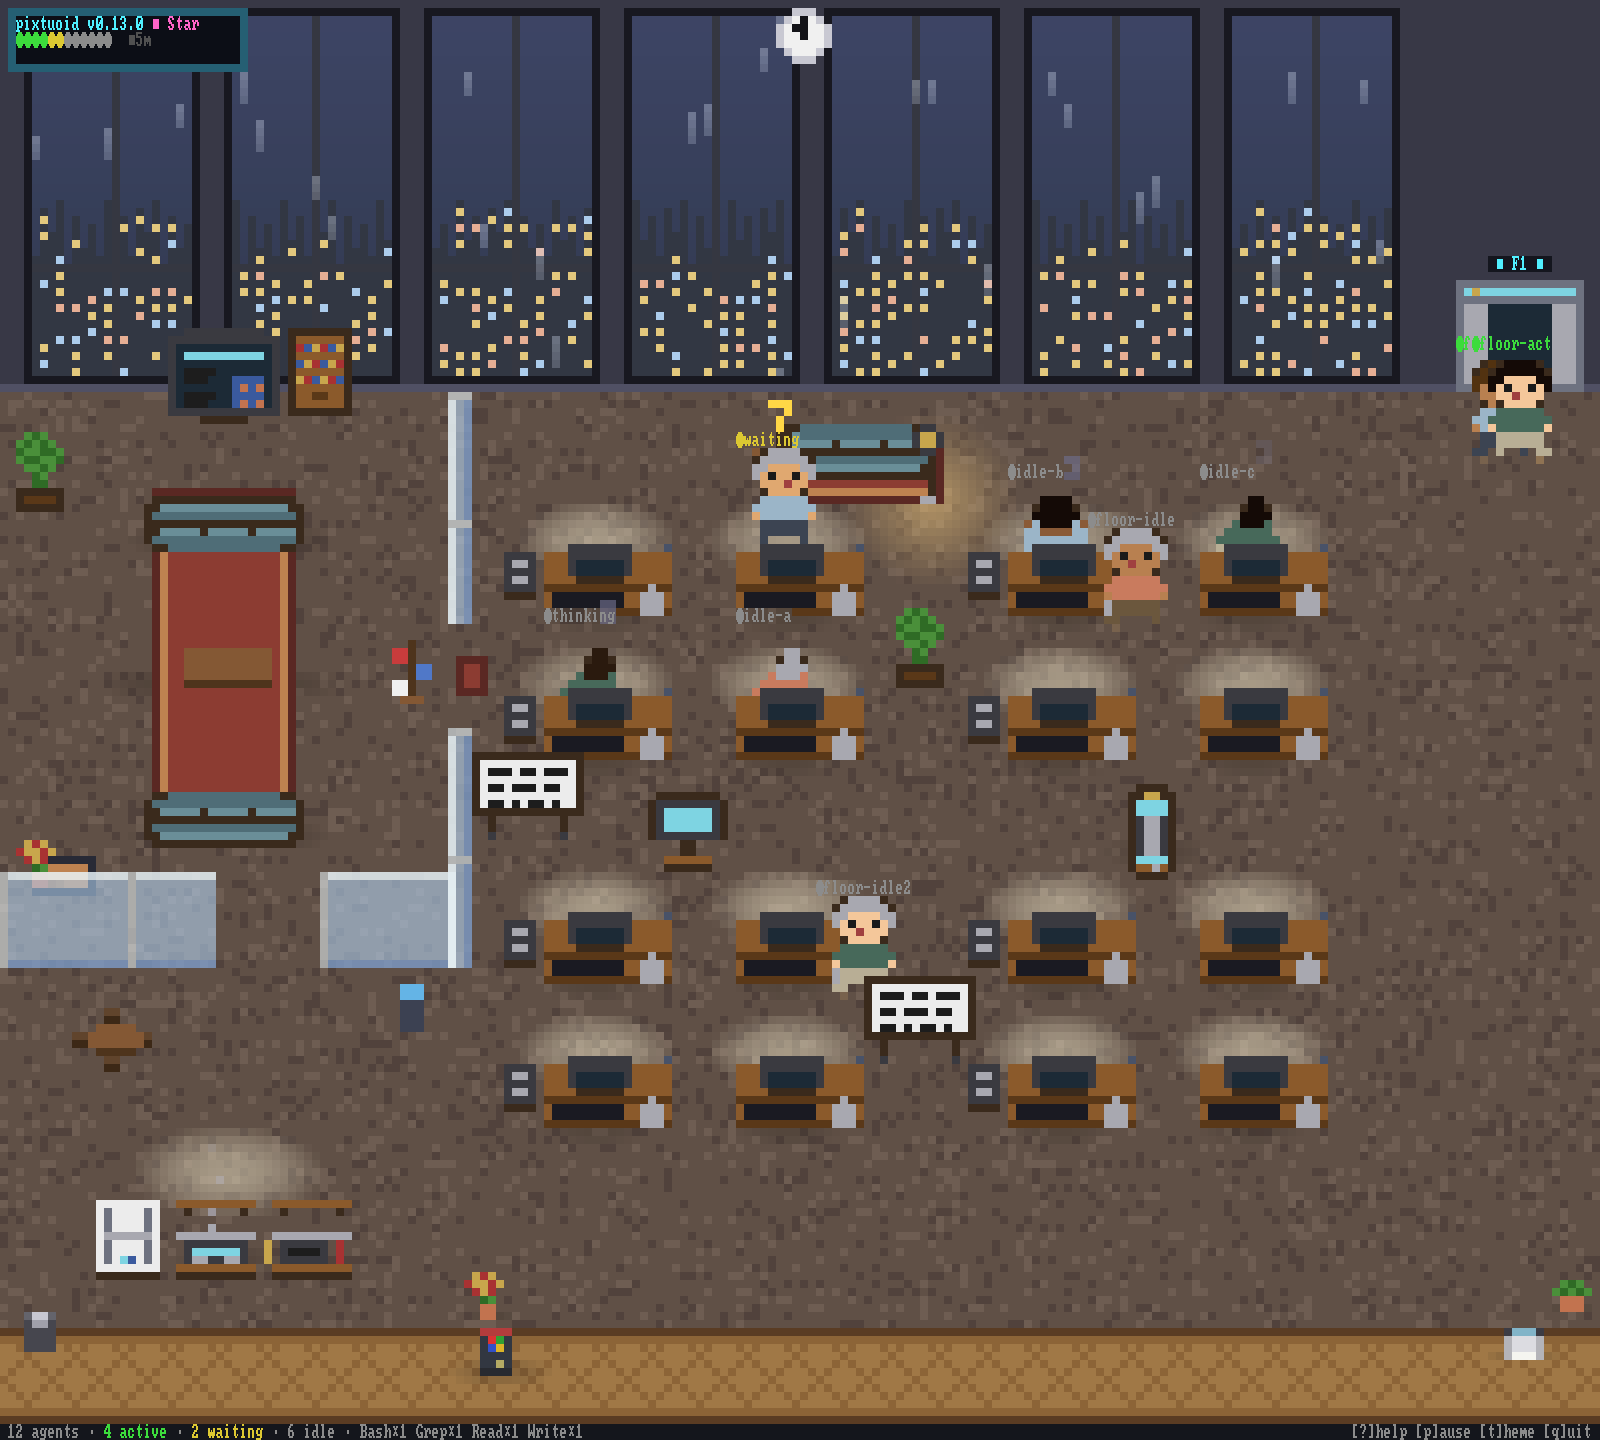
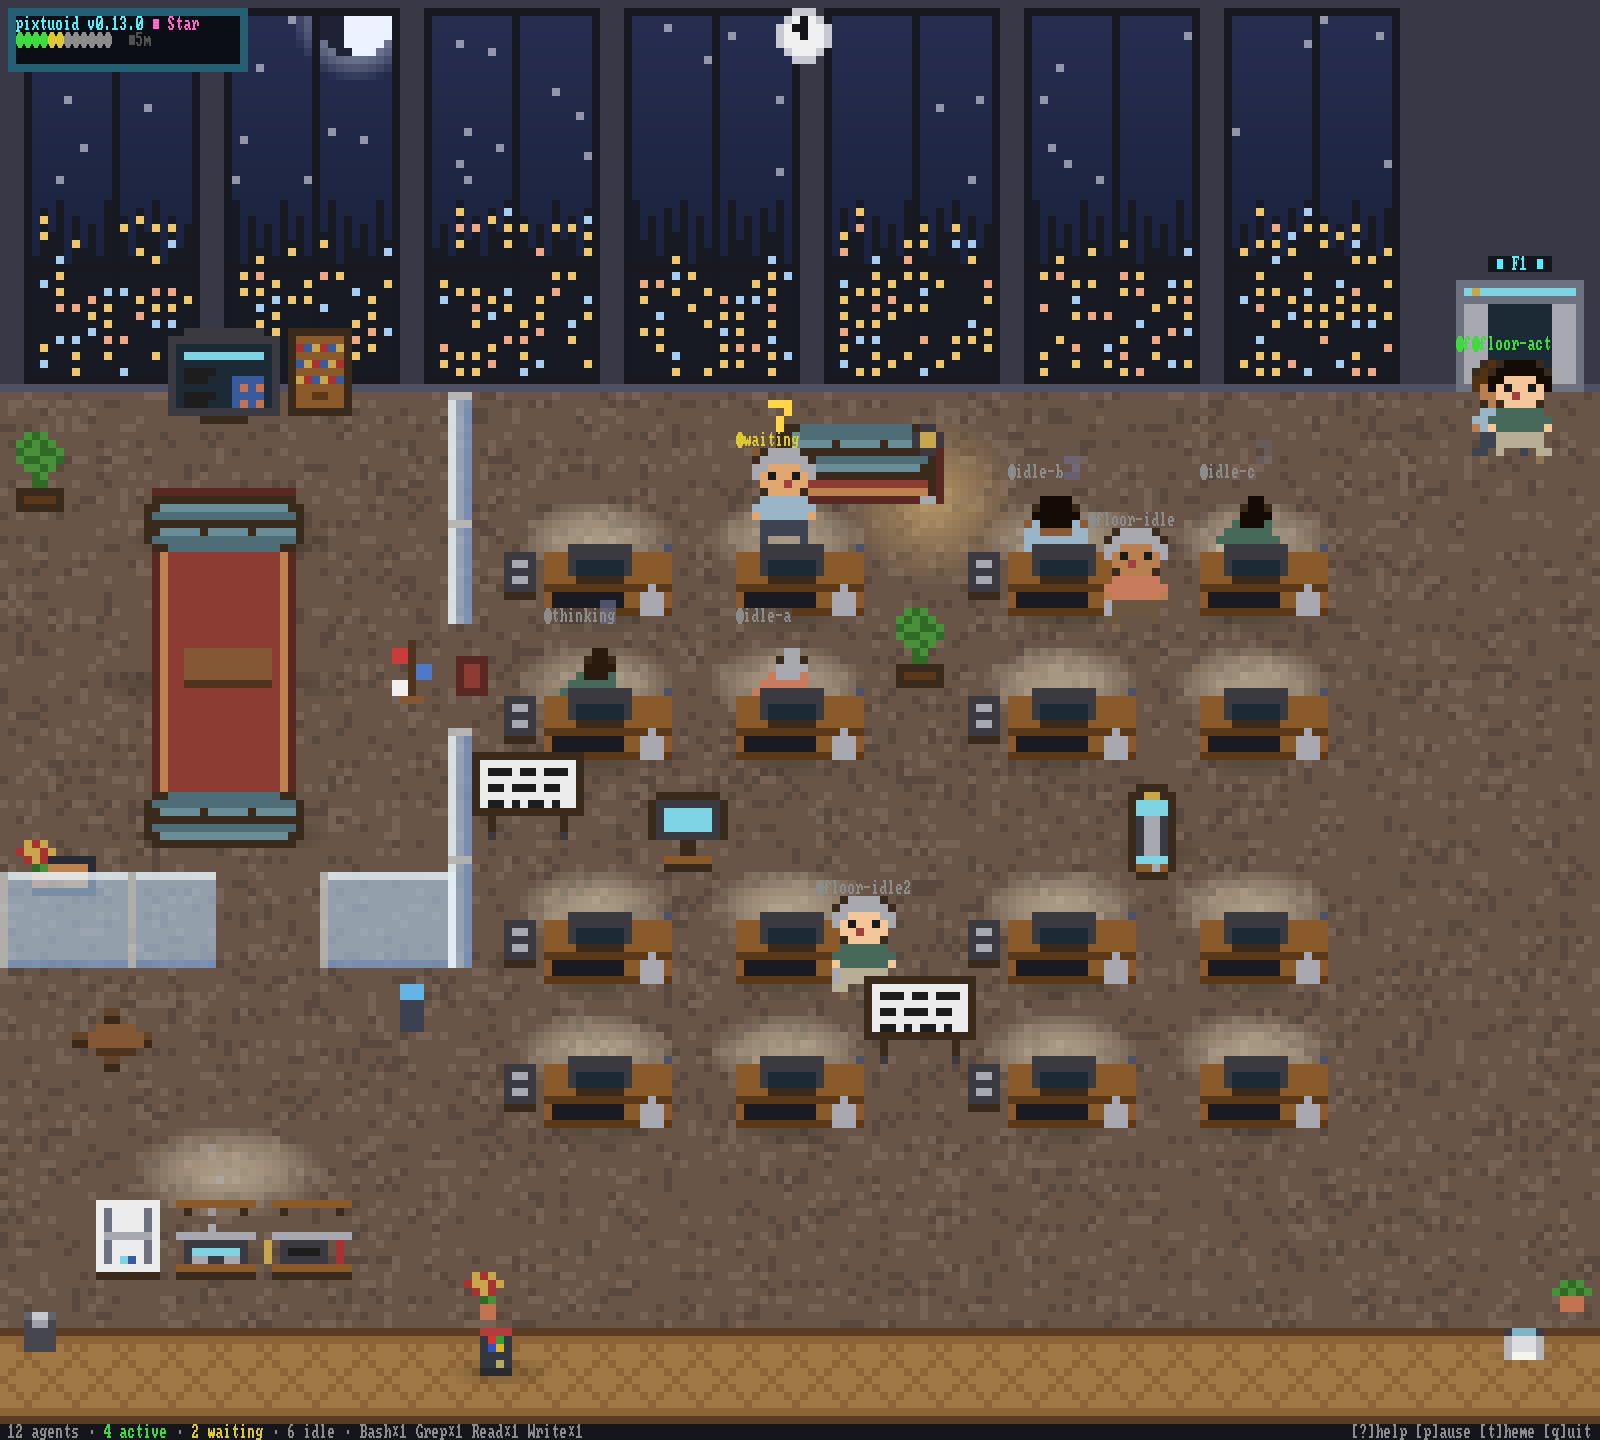
review: two-lens review round — tighten test, correct splitmix64 doc, trim stale copy, show the moon in the night showcase
Three-lens review (correctness + design/blast-radius + film-critic): APPROVE-WITH-NITS ×2, APPROVE ×1, no blockers. Dispositions:

FIXED:
- (correctness, conf 85) emitter_is_sun_by_day_moon_by_night_never_both: Moon arm was the loose !(8..17); tightened to the exact complement !(5..20) of the Sun arm (a SUN_RISE_H/SUN_SET_H boundary shift previously slipped past it — confirmed by the reviewer's mutation test).
- (correctness, conf 88) scene CLAUDE.md: my Task-8 "splitmix64 SIX times" bump was wrong — star_exists/star_twinkle are the simpler city_dot_twinkle idiom (single-shift / lone golden-ratio multiply), NOT the 3-stage splitmix64 finalizer. Reverted to FOUR genuine sites + a separate constant-as-multiplier-mix family note.
- (design, conf 62) features.json "Weather effects": dropped the now-stale "+ sunset golden hour" (golden hour is the living-sky emitter's territory now, golden_hour_blaze); regenerated README.

POLISH:
- (design/film-critic) night showcase forced weather=clear (media.json) so the moon + stars reliably show (was landing on a cloudy night with no moon); regenerated night.png.

REFUTED (no change, with trace):
- (design) release_notes "a clear noon blazes" refers to interior brightness (true at clear noon), not disc visibility — the "real low window" apex-clip sharp edge stands; not a factual error.
[…]

Changed region(s): [[0.0, 0.0, 0.875, 0.2812]]

diff --git a/crates/pixtuoid-scene/src/pixel_painter/background/sky.rs b/crates/pixtuoid-scene/src/pixel_painter/background/sky.rs
@@ -719,9 +719,12 @@ mod tests {
                     (5.0..20.0).contains(&(h as f32 + m as f32 / 60.0)),
                     "sun only during the daylight ramp, got {h}:{m:02}"
                 ),
+                // Exact complement of the Sun arm's `[5,20)` band (was the
+                // looser `!(8..17)`, which left [5,8)/[17,20) unchecked for the
+                // moon — a SUN_RISE_H/SUN_SET_H boundary shift slipped past it).
                 Body::Moon => assert!(
-                    !(8.0..17.0).contains(&(h as f32 + m as f32 / 60.0)),
-                    "moon never at solar midday, got {h}:{m:02}"
+                    !(5.0..20.0).contains(&(h as f32 + m as f32 / 60.0)),
+                    "moon only when the sun is down, got {h}:{m:02}"
                 ),
             }
         }

diff --git a/crates/pixtuoid-scene/CLAUDE.md b/crates/pixtuoid-scene/CLAUDE.md
@@ -196,7 +196,7 @@ src/                (the pixtuoid-scene crate root; default pack at ../sprites/d
 - **A meeting room narrower than `MEETING_FURNITURE_MIN_W` (compute.rs) has NO sofa/table/seats — bare floor, BY DESIGN.** Below it the 16px sofa body leaves too little margin for the coarse 4×4 router to reach the seats, so an idle agent sent to sit would TELEPORT (find_path None → straight-line fallback). The room Bounds/walls/door still exist; only the unroutable furniture is dropped (same degradation the dense floor uses when too short). So "meeting room exists" no longer implies "meeting slots exist" — don't "fix" the missing sofa at small sizes. Guarded by `pathfind::tests::every_wander_waypoint_is_routable_on_the_coarse_grid` (coarse-grid reachability across seeds × sizes — stronger than the pixel-BFS connectivity sweep).
 - **Occlusion is EMERGENT — there is no `occludes_behind` field / synthetic cap any more (deleted).** An overhanging piece (`visual.h > footprint.h`: plant canopy, booth column, TV monitor, whiteboard panel, pantry counter) has its footprint **south-anchored to the sprite base** by `mask::stamp_overhang_aware`, so a walker parks DEEP behind it and the piece's own y-sorted sprite paints over their lower body. The old `paint_furniture_back_floor` floor-snapshot cap is gone. **Two intentionally decoupled footprints:** the MASK uses the shallow `footprint` (occlusion + collision); `approach_point` derives the USER's park distance from the full `visual` (`approach_clearance_extent` — the SINGLE extent source, which `stand_point` delegates through) so someone *using* the furniture parks clear of the whole sprite, not inside it. This is the industry Y-sort pattern (base-collision + sprite-occludes); **don't re-add a cap** — make the sprite overhang its shallow footprint instead. Pinned by `pixtuoid_scene::pixel_painter::tests::every_pod_occludes_via_overhang` (in the `pixtuoid-scene` engine crate, not core).
 - **Pantry counter blocks only a shallow `PANTRY_FOOTPRINT_DEPTH` south strip, not its full sprite height.** The counter is a ¾-view sprite centered on `pos`; only its south base contacts the floor (the receding cabinet tops overhang, invariant #6). `mask.rs` south-anchors a 3px strip; a character behind it is occluded by the counter's own y-sorted sprite, couch-style — the same emergent occlusion as every overhanging piece (above). `stand_point` parks the USER clear of the full `visual`, not this shallow strip (the runtime-sized pantry was the original mask-vs-approach decouple, now generalised to all overhanging obstacles).
-- **splitmix64 is open-coded SIX times in this crate on purpose** (`weather_state` in `background/sky.rs`, `strike_offset` in `background/mod.rs`, `dust_mote_positions` in `ambient.rs`, `cwd_outfit_seed` in `pixel_painter/palette.rs`, `star_exists` + `star_twinkle` in `background/mod.rs` — the night star field) beside the canonical `core::id::splitmix64` (`#[doc(hidden)] pub` since the physics/pose personality slicers moved into this crate and finalize through it cross-crate), plus constant-as-multiplier mixes in `ambient.rs` and `pose::is_aimless_cycle`. DELIBERATE: each is an independent noise source over a disjoint input domain — no two sites need equal output, so no parity test exists or is wanted; the real gate is the gen-check pixel diff on the rendered output. Don't unify them into one shared fn.
+- **splitmix64 is open-coded FOUR times in this crate on purpose** (`weather_state` in `background/sky.rs`, `strike_offset` in `background/mod.rs`, `dust_mote_positions` in `ambient.rs`, `cwd_outfit_seed` in `pixel_painter/palette.rs` — each the canonical 3-stage finalizer, shifts 30/27/31) beside the canonical `core::id::splitmix64` (`#[doc(hidden)] pub` since the physics/pose personality slicers moved into this crate and finalize through it cross-crate), plus a SEPARATE family of simpler **constant-as-multiplier position/twinkle mixes** — `ambient.rs`, `pose::is_aimless_cycle`, the skyline `city_dot_lit`/`city_dot_twinkle`, and the night-star `star_exists`/`star_twinkle` in `background/mod.rs` (a single-shift or lone golden-ratio multiply — NOT splitmix64's 3-stage finalizer; don't miscount them as splitmix64 clones). DELIBERATE either way: each is an independent noise source over a disjoint input domain — no two sites need equal output, so no parity test exists or is wanted; the real gate is the gen-check pixel diff on the rendered output. Don't unify them into one shared fn.
 - **The sun/moon disc keeps a "real low window":** it is only visible at LOW altitude (dawn/dusk) and clips above the glass near its arc apex (absent at solar midday / lunar midnight — see `HORIZON_FRAC`/`ARC_RISE_FRAC` in `background/mod.rs`); it's gated to the ONE window its centre is currently over, so it hides behind the inter-window wall pillar between panes and behind the right-side elevator door at the dusk extreme; and thick cloud (Overcast/Rain/Storm) hides it uniformly below `MIN_DISC_VIS`, regardless of altitude. Don't "fix" any of these as a bug — they're the intended day/night + weather gating.
 - **Day-over-night light invariant:** the moon casts no direct beam (diffuse-fill only — both `beam_strength` and `time_of_day_look`'s `direct_eff` zero it for `Body::Moon`), and `MOON_PEAK_LUM` + the weather-keyed `city_bounce` night floor are calibrated so a solar noon of ANY weather stays brighter than the brightest moonlit night — guarded by `solar_noon_outshines_the_brightest_night` (`background/sky.rs`). Don't recalibrate one side (moon luminance, `city_bounce`, or a weather's `atmo` channels) without re-running that test.
 

diff --git a/README.md b/README.md
@@ -83,7 +83,7 @@ Press `s` to open the **Sources** panel and connect your agent CLI (Claude Code,
 | 💡 | **Per-tool monitor glow** | Edit = blue, Bash = orange, Read = cyan — scannable at a glance |
 | 🎨 | **Team palette** | Shirt + pants colored by working directory (same repo → same color, a glanceable org-chart); hair/skin per agent. 16 curated outfits |
 | 🦞 | **OpenClaw gateway mascot** | A live OpenClaw gateway shows up as a wandering lobster whose motion tracks gateway health |
-| 🌧 | **Weather effects** | Rain, storm, snow, fog, overcast, windy — cycles every 10 min + sunset golden hour |
+| 🌧 | **Weather effects** | Rain, storm, snow, fog, overcast, windy — eight variants cycling every 10 minutes |
 | 🌅 | **Living sky** | A sun and moon arc over the city skyline through the day; weather is real atmosphere — clouds dim the beam, fog swallows the sun, storms darken the room, and a crescent moon rises at night |
 | 🔎 | **Hover tooltips** | Hover an agent for session duration, tool-call count and active-time %; hover any furniture — desks, sofas, plants, vending machine, printer — for its name |
 | 🐾 | **Office pets** | A cat or dog (one per floor) roams desks, pantry, sofas; sleeps near idle agents. Click to pet — pixel-art hearts float up |
